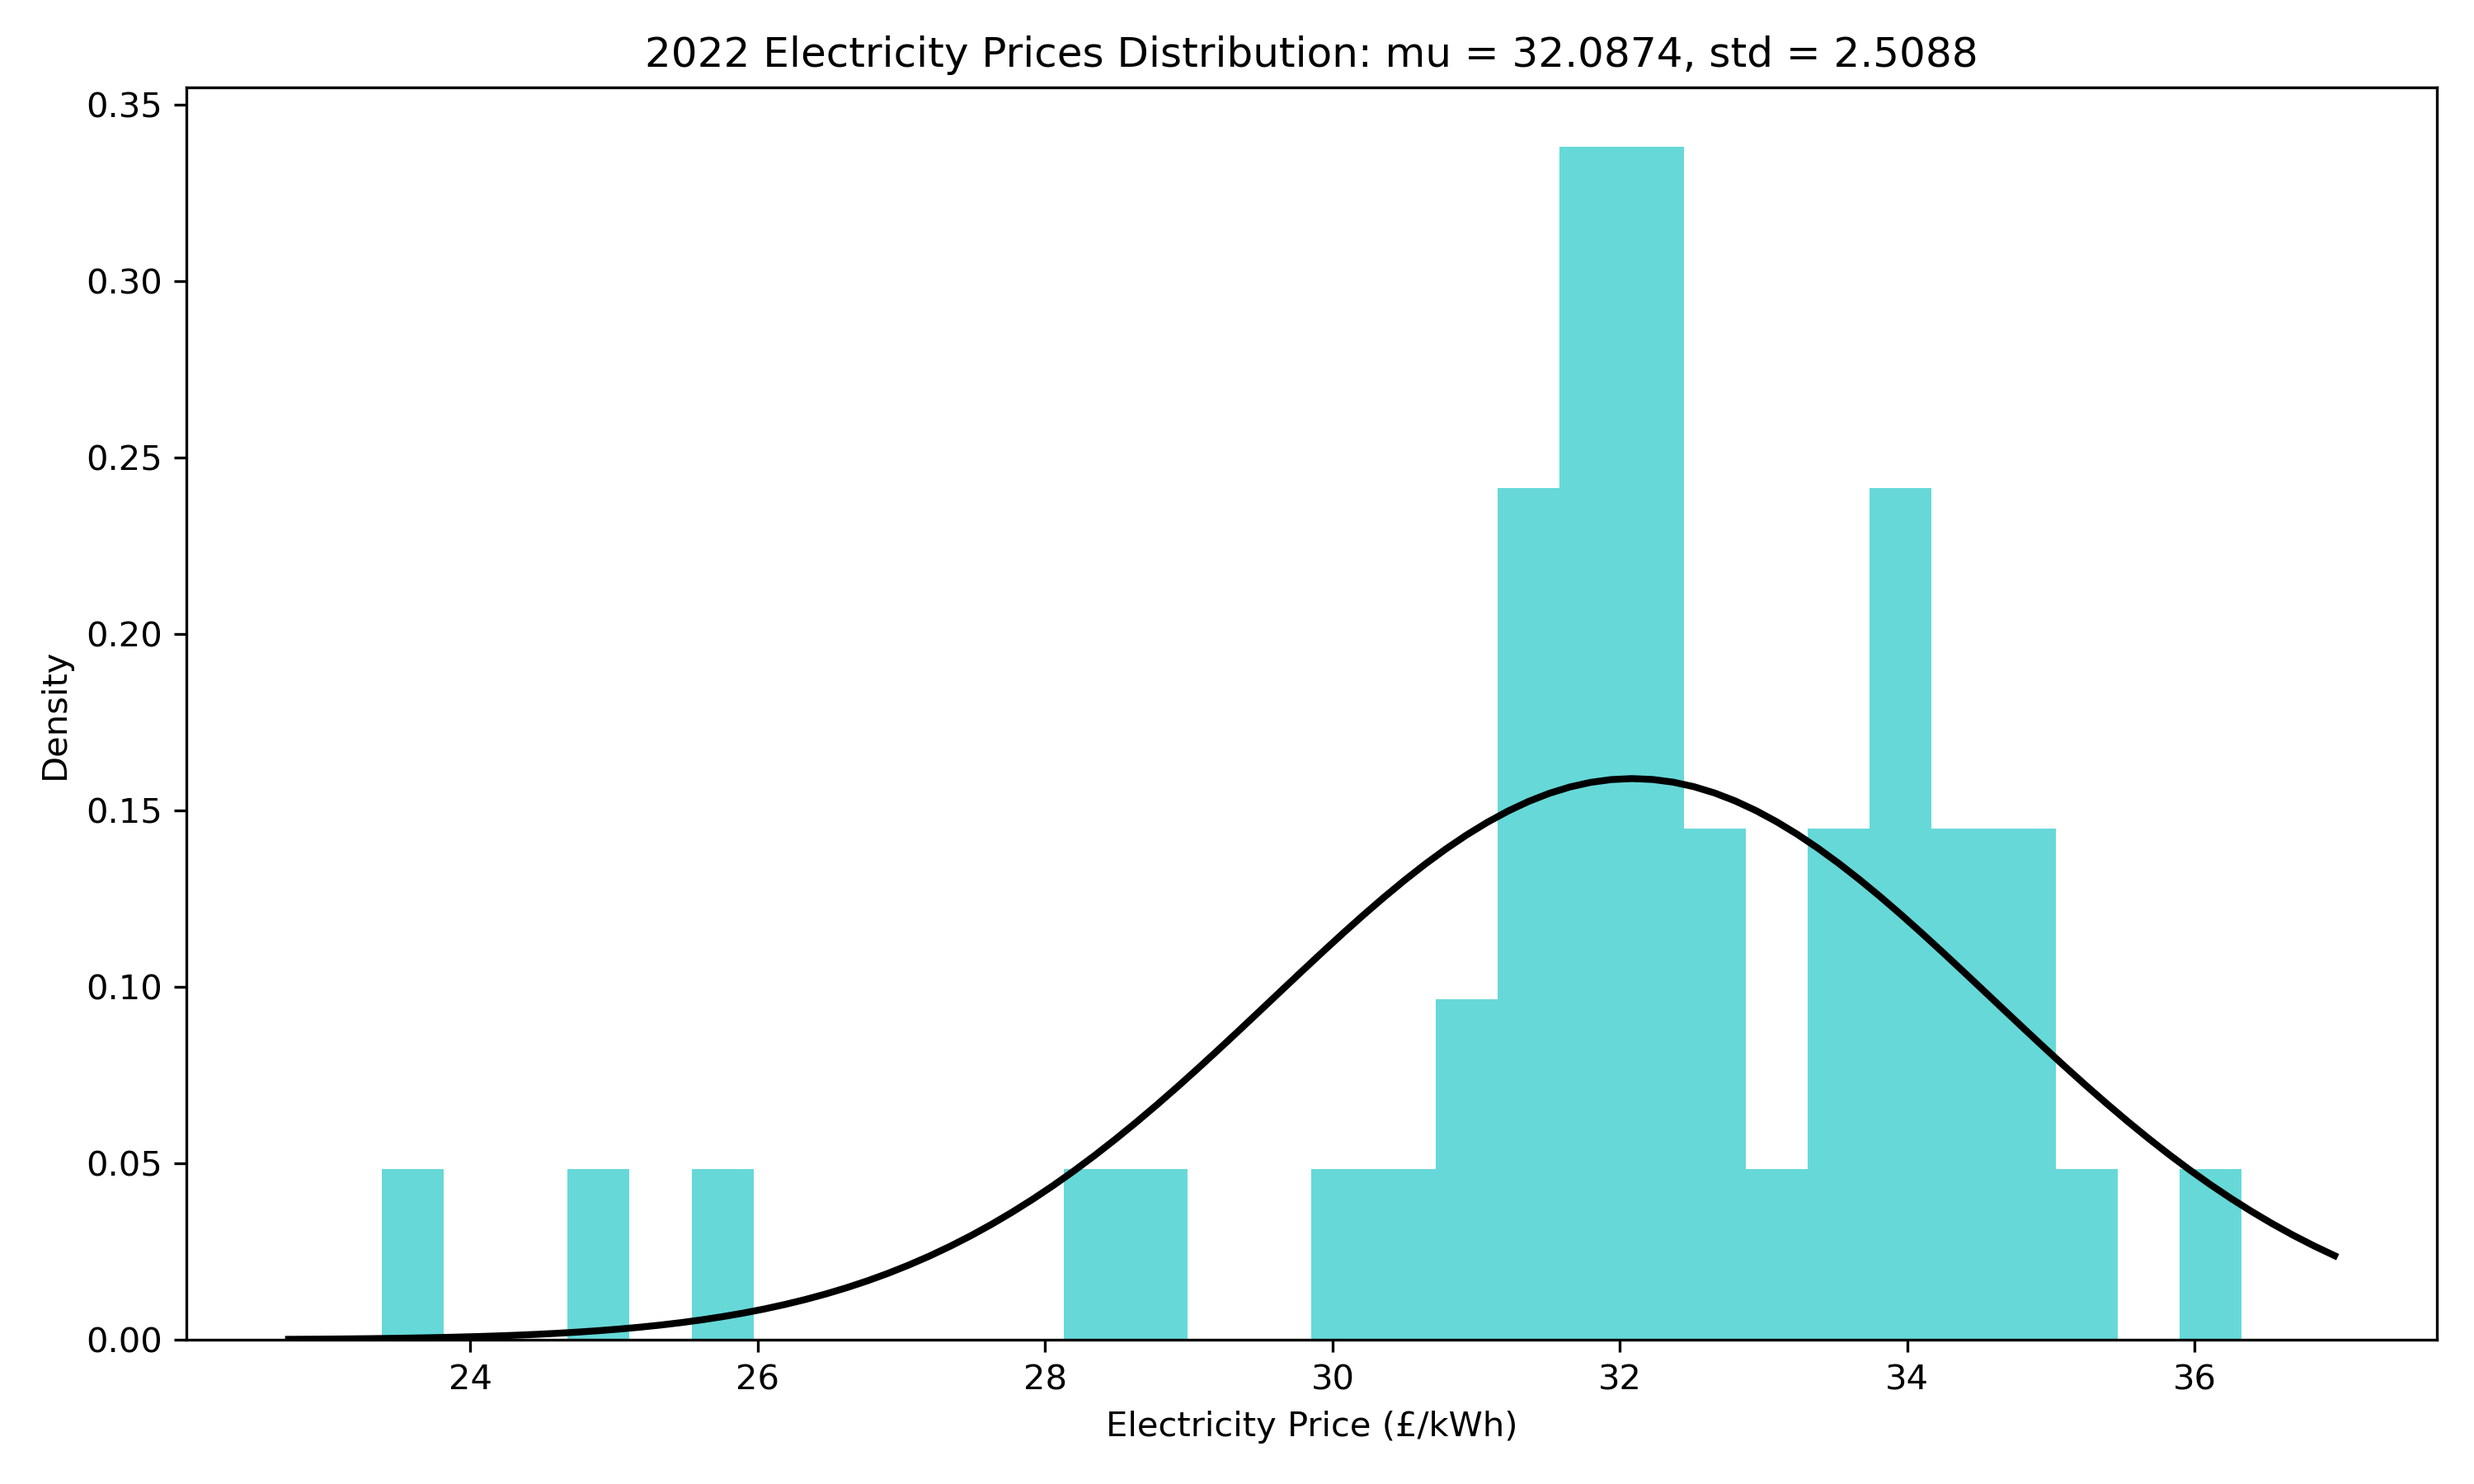
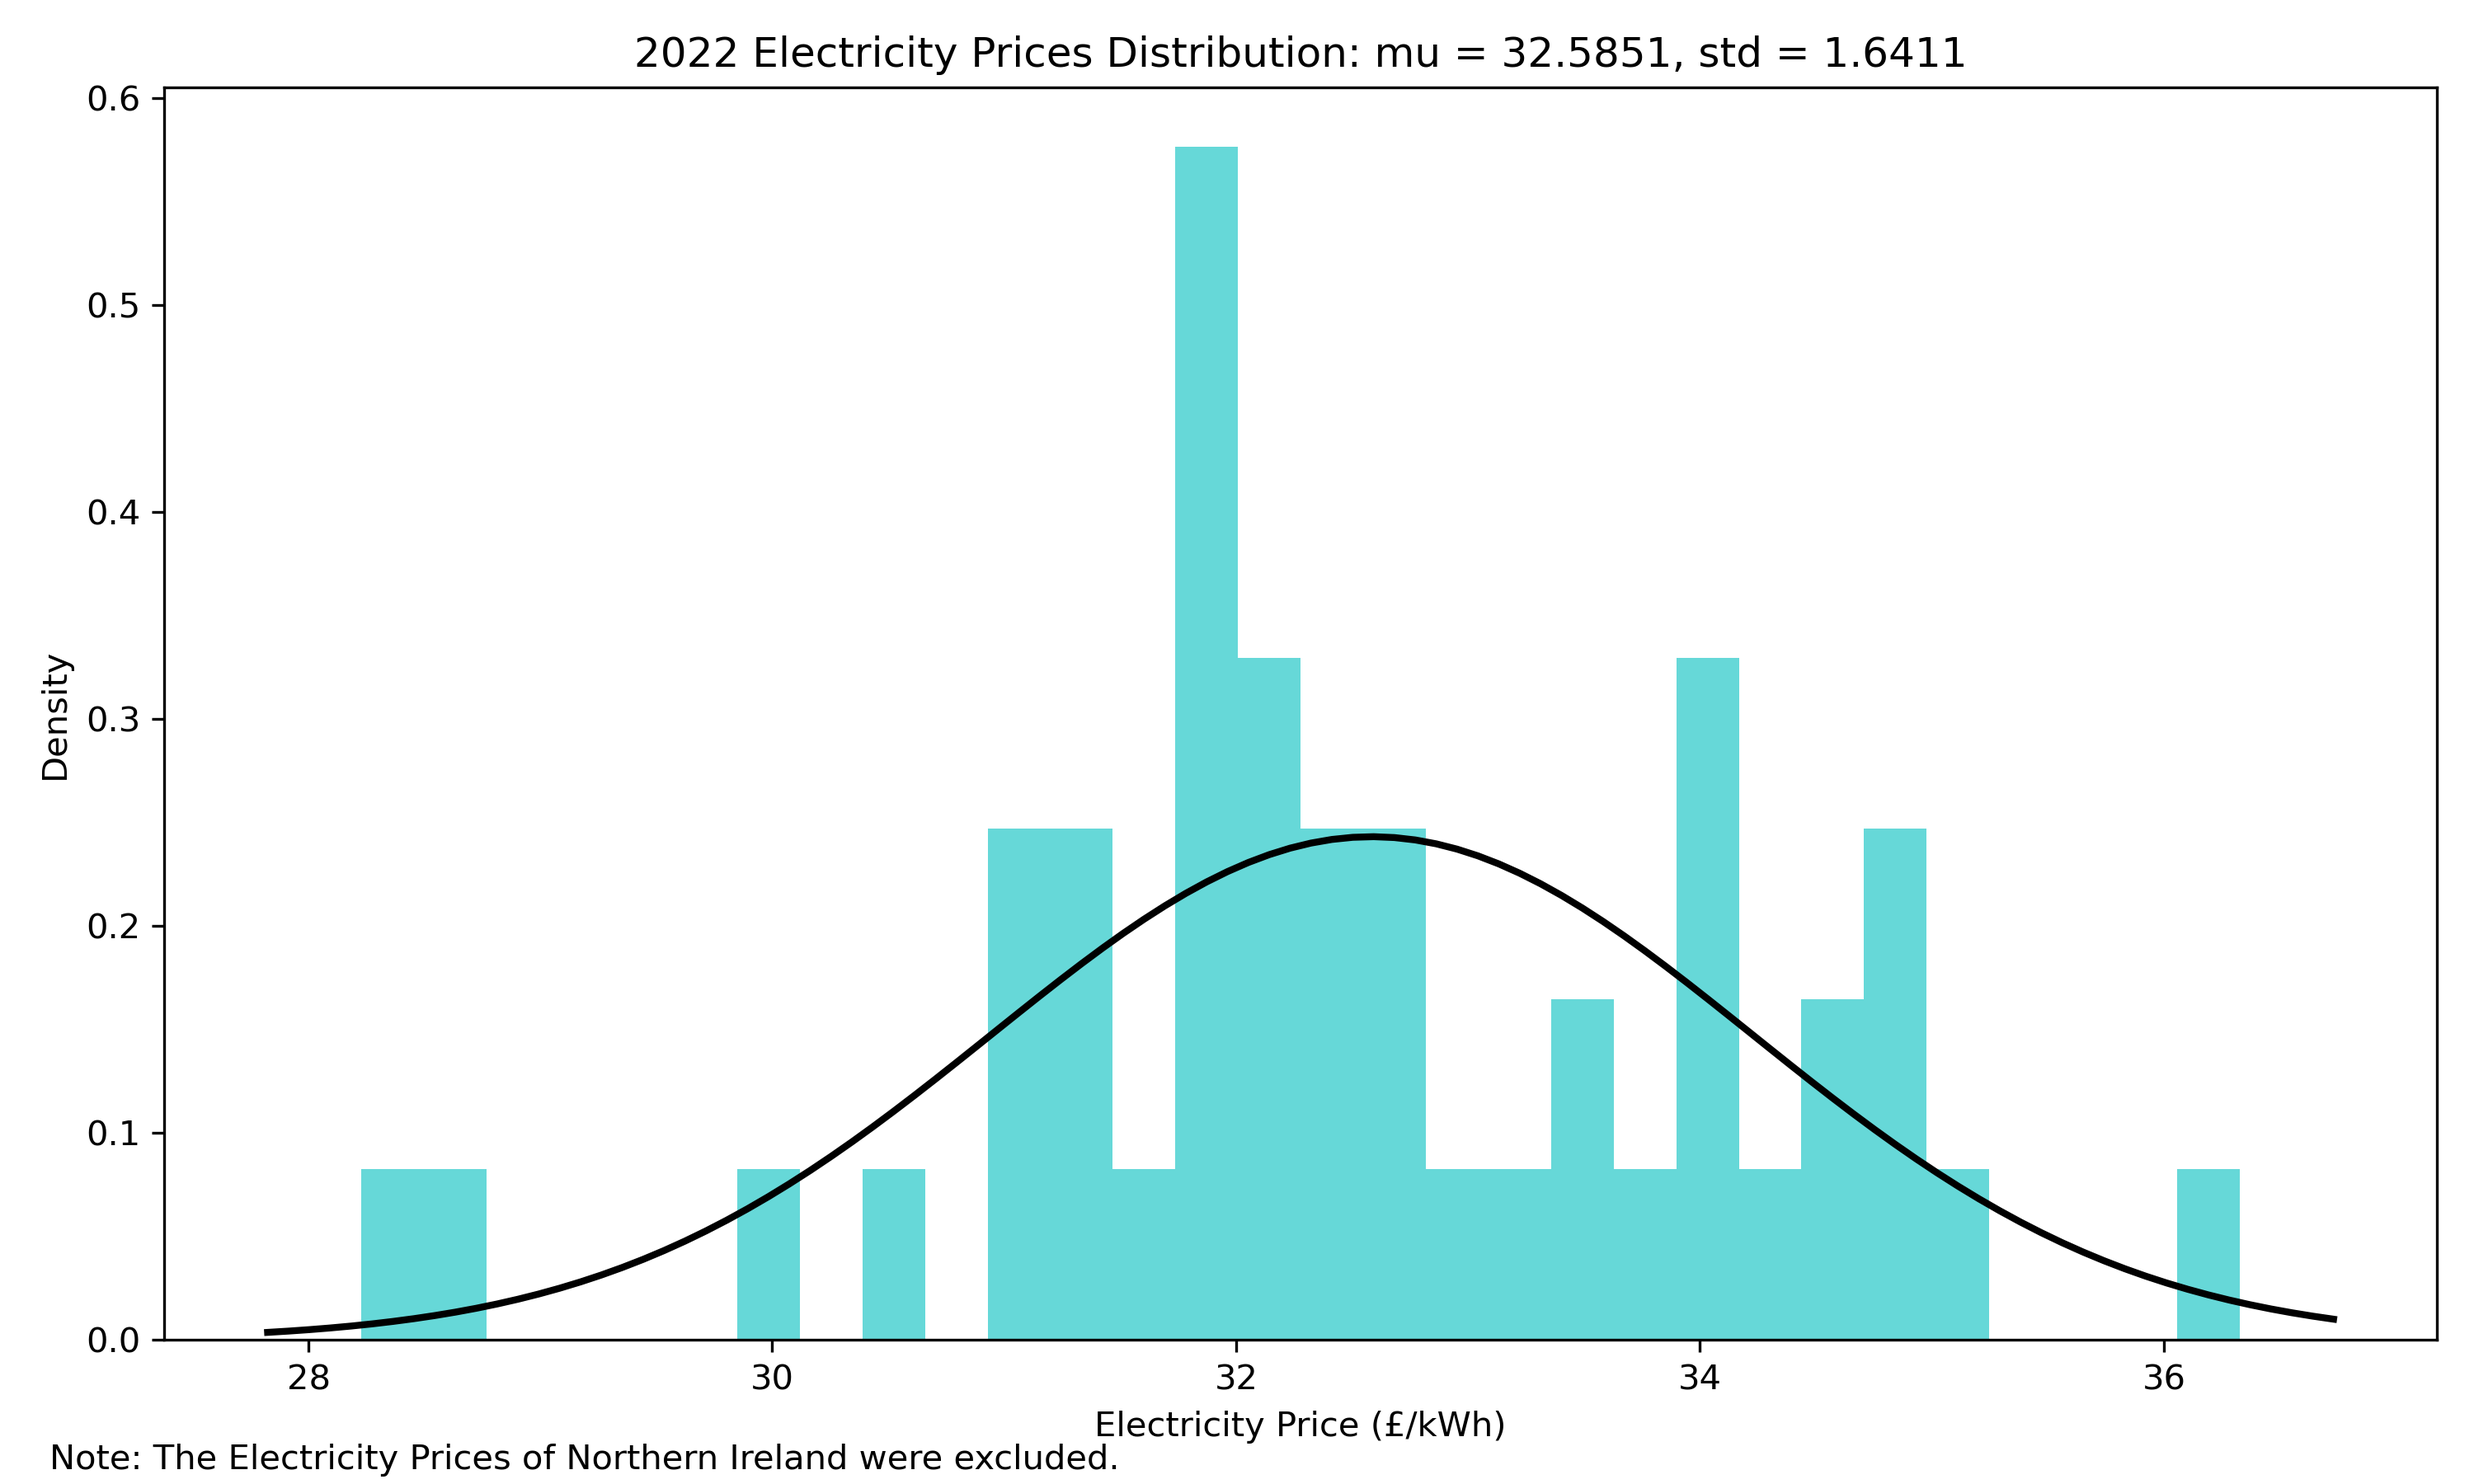
Your commit message

diff --git a/uncertainty_VOI.py b/uncertainty_VOI.py
@@ -54,6 +54,9 @@ electricity_price_data.columns
 # Filtering the data for the year 2022
 electricity_price_2022 = electricity_price_data[electricity_price_data['Year'] == 2022]
 
+electricity_price_2022 = electricity_price_2022[electricity_price_2022['Region'] != 'Northern Ireland']
+# plt.bar(electricity_price_2022['Region'], electricity_price_2022["Credit: Unit cost (Pence per kWh)"])
+# plt.show()
 # Selecting the requested columns
 credit_prices_2022 = electricity_price_2022["Credit: Unit cost (Pence per kWh)"]
 debit_prices_2022 = electricity_price_2022["Direct debit: Unit cost (Pence per kWh)"]
@@ -79,6 +82,10 @@ title = f"2022 Electricity Prices Distribution: mu = {mu:.4f}, std = {std:.4f}"
 plt.title(title)
 plt.xlabel('Electricity Price (£/kWh)')
 plt.ylabel('Density')
+# Adding a note at the bottom of the figure
+plt.figtext(0.02, 0.01, "Note: The Electricity Prices of Northern Ireland were excluded.",
+            wrap=True, horizontalalignment='left', fontsize=10)
+
 plt.tight_layout()
 plt.savefig('plots/2022_Electricity_Prices.png', dpi=300)
 plt.show()
@@ -93,7 +100,6 @@ import scipy.stats as stats
 from scipy.stats import norm
 # continuous
 AllData = pd.read_csv('Inputs/A011_1389_OLDSCHOOL.csv')
-
 gas_df = AllData[AllData['type.1'] == 'Gas']
 
 locations = gas_df.location.unique()
@@ -172,6 +178,7 @@ Year_sum['Year'] = Year_sum['Time'].dt.year
 
 # calcuate sum
 yearly_sum = Year_sum.groupby('Year')['Gas'].sum()
+
 # save
 yearly_sum.to_csv('Inputs/yearly_sum_'+locations[0]+'_.csv')
 
@@ -185,7 +192,7 @@ plt.title('Annual Heating Load from 2012-2021')
 plt.tight_layout()
 plt.savefig('plots/Historical_Heating_Load.png', dpi=300)
 plt.show()
-
+filtered_yearly_sum=filtered_yearly_sum[filtered_yearly_sum.index!=2020]
 # Fit the data to a normal distribution
 mu, std = stats.norm.fit(filtered_yearly_sum)
 
@@ -203,6 +210,8 @@ title = f"2012-2021 Heating Load Distribution: mu = {mu:.4f}, std = {std:.4f}"
 plt.title(title)
 plt.xlabel('Annual Heating Load (kWh)')
 plt.ylabel('Density')
+plt.figtext(0.02, 0.01, "Note: Heating Load in 2020 was excluded due to Covid impact.",
+            wrap=True, horizontalalignment='left', fontsize=10)
 plt.tight_layout()
 plt.savefig('plots/Cumulative_Heating_Load.png', dpi=300)
 plt.show()

diff --git a/README.md b/README.md
@@ -2,10 +2,12 @@
 This  branch focuses on developing probabilistic models to estimate heating loads, beta parameter variables, and electricity prices. It leverages uncertainty analysis and simulation techniques. Detailed implementation can be found in `uncertainty_VOI.py`.
 
 ### 1. Heating Load Uncertainty
-Data on the yearly heating energy consumption of an educational building (A011 old school) in Cambridge was gathered for the period 2012 to 2021. A normal distribution model was applied to characterize the pattern of this heating energy usage.
+Data on the yearly heating energy consumption of an educational building (A011 old school) in Cambridge was gathered for the period 2012 to 2021 as shown in Figure 1.
 
 **Figure 1: Historical Annual Heating Load from 2012 to 2021**
 ![Annual Heating Load](/plots/Historical_Heating_Load.png)
+
+A normal distribution model was applied to characterize the pattern of this heating energy usage as shown in Figure 2. The heating load data in 2022 was excluded due to the impacts of Covid-19.
 
 **Figure 2: Fitted Distribution of Annual Heating Load**
 ![Annual Heating Load](/plots/Cumulative_Heating_Load.png)
@@ -21,7 +23,7 @@ where β<sub>a</sub> = 0.05, β<sub>b</sub>  = 2.5, γ = 1.4, N<sub>m</sub> is t
 ![Performance Improvement Distribution](/plots/Performance_improvement_distribution.png)
 
 ### 3. Electricity Prices
-Electricity price data was downloaded from [Gov.uk](https://www.gov.uk/government/statistical-data-sets/annual-domestic-energy-price-statisticshttps://www.gov.uk/government/statistical-data-sets/annual-domestic-energy-price-statistics), using the 2022 unit electricity costs for different payment methods (i.e.,credit,direct debit and prepayment) across different UK regions (i.e.,East Midlands, Eastern, London, Merseyside & North Wales, North East, North Scotland, North West, Northern Ireland, South East, South Scotland, South Wales, South West, Southern, West Midlands, Yorkshire) to fit the distribution of electricity prices.
+Electricity price data was downloaded from [Gov.uk](https://www.gov.uk/government/statistical-data-sets/annual-domestic-energy-price-statisticshttps://www.gov.uk/government/statistical-data-sets/annual-domestic-energy-price-statistics), using the 2022 unit electricity costs for different payment methods (i.e.,credit,direct debit and prepayment) across different UK regions (i.e.,East Midlands, Eastern, London, Merseyside & North Wales, North East, North Scotland, North West, South East, South Scotland, South Wales, South West, Southern, West Midlands and Yorkshire) to fit the distribution of electricity prices.
 
 **Figure 4: 2022 Electricity Prices**
 ![2022 Electricity Prices](/plots/2022_Electricity_Prices.png)
